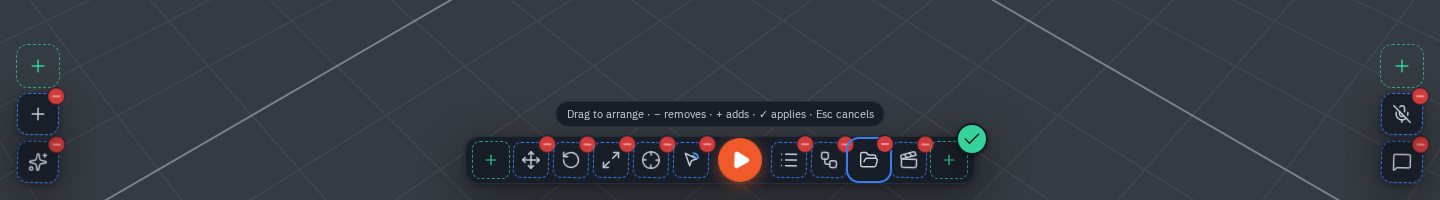
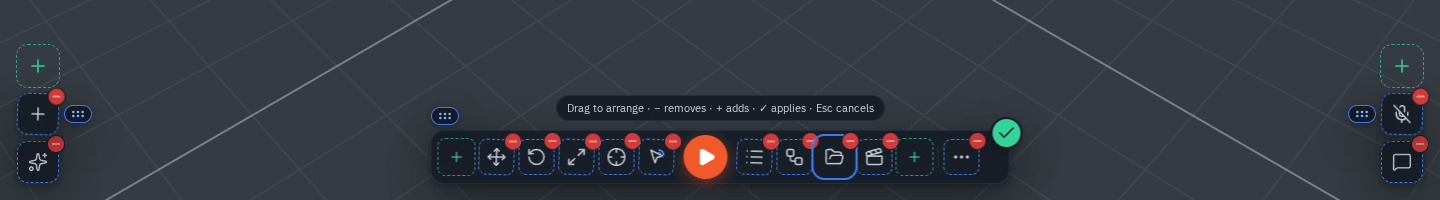
[docs] 1.35 screenshots: cluster grips, rotated clusters, window menu, dock "+" menu, dock split, focus-mode Viewport button (44-int)
Real captures of preview-1-35 (version.json sha 333d95d2), dark theme, 1440x900,
palette PNGs via sharp:
- controls: edit-positions-clusters (every cluster's grip in Edit positions, Touch
  tools on), clusters-rotated (toolbar vertical on the left edge, bottom-left
  corner as a row), window-menu (Objects header menu with Group with... > Chat)
- interface: dock-plus-menu (ticked In dock / Floating / Right sidebar rows),
  dock-split (Node editor / Explorer side by side), focus-mode-viewport-toggle
  (maximized Explorer, Viewport beside Exit focus, the PiP)
- replaced edit-positions and edit-positions-connect-bar with 1.35 captures (the
  1.34 shots had no cluster grips); connect-bar is now a crop of the top row, alt
  text updated for both

diff --git a/docs/controls.md b/docs/controls.md
@@ -438,6 +438,8 @@ Right-click a floating window's header — or press and hold it on a touch scree
 The same menu opens on a tab of a [floating window with tabs](interface.md#floating-windows-with-tabs). The header itself
 is unchanged.
 
+![The floating Objects window's header right-clicked: Dock to bottom, Move to left sidebar, Move to right sidebar, Float (undock) greyed because it already floats, Group with… open on Chat, Bring to front, Reset size and Close](img/controls/window-menu.png){ width="437" }
+
 For the bottom dock's own buttons — **Undock**, **Split**, closing a view from its tab, **Dock all tabs** on a floating
 window — and for docking a window into an exact slot by dropping it on the dock's tab bar, see
 [Windows and tabs](interface.md#windows-and-tabs).
@@ -567,6 +569,10 @@ logo and your profile picture stay where they are.) In **Edit positions** every 
   unfolding a phone, beside a pinned sidebar or above the dock. [Workspace layouts](#workspace-layouts) carry the places
   and rotations.
 
+![Edit positions with Touch tools on: every cluster has a small grip under it — the Undo, Redo and Multi-select row beside the logo, the Connect bar, the top-right group, the bottom toolbar and both corner stacks — and every button still carries its red − with green + slots](img/controls/edit-positions-clusters.png)
+
+![After Rotate to vertical and Rotate to horizontal: the toolbar stands on the left edge with Play in its middle, and the bottom-left corner buttons lie in a row](img/controls/clusters-rotated.png)
+
 #### Arranging the buttons
 
 Single buttons move between the clusters as before. The places that take buttons:
@@ -599,11 +605,11 @@ Then:
 - The round green **✓** at the top right of the toolbar **applies** the new layout. <kbd>Esc</kbd>, or a click anywhere
   else, cancels it.
 
-![Edit positions on a computer: every button has a red −, green + slots sit at the ends of the bar and on top of each corner stack, and the green ✓ applies](img/controls/edit-positions.png)
+![Edit positions on a computer: every button has a red −, green + slots sit at the ends of the bar and on top of each corner stack, a grip sits beside the bar and each corner stack, and the green ✓ applies](img/controls/edit-positions.png)
 
 ![Edit positions reaching the top right: the notifications and Explorer buttons in the top-right group carry a red − with a green + for its next place, the left corner holds four buttons and no +, and the right corner shows one +](img/controls/edit-positions-top-right.png)
 
-![Edit positions with a mouse in 1.34: Undo, Redo and Multi-select beside the logo carry a red − with a + for the next place, the Connect bar has its own red −, and the … button at the end of the bottom bar has a − too](img/controls/edit-positions-connect-bar.png)
+![The top of the screen in Edit positions with a mouse: Undo, Redo and Multi-select beside the logo carry a red − with a + for the next place, the Connect bar has its own red −, the top-right group shows a + for its next place, and each of the three clusters has its grip underneath](img/controls/edit-positions-connect-bar.png)
 
 The menus name buttons by their short name — **Pivot**, **Microphone**; the toolbar's own tooltips still tell you the
 pivot mode and how to talk.

diff --git a/docs/interface.md b/docs/interface.md
@@ -208,6 +208,8 @@ second copy:
 To close a docked window use its tab's **×**; to bring a floating window into the dock, drag it onto the dock or use its
 [window menu](controls.md#the-window-menu) (**Dock to bottom**).
 
+![The dock's + menu open: Node editor and Explorer are ticked In dock, Objects is ticked Floating, Statistics is ticked Right sidebar, and every closed window says Open](img/interface/dock-plus-menu.png)
+
 **Dock any window exactly where you want it**: drag a floating window by its header or any empty part of it — or tear
 a tab out of a tabbed window, or drag a whole tabbed window by its tab bar — onto the **dock's tab bar**. The window turns
 see-through, the tab bar is outlined and a **caret** shows the slot between the docked tabs where it will land; let go
@@ -247,6 +249,8 @@ the app closes one window of a pair for a while, the other fills the dock until 
 screen — a computer or an unfolded phone; on a folded phone the dock is one column and a pair shows as its two ordinary
 tabs.
 
+![The dock split side by side: one tab reads Node editor / Explorer, the Node editor with three nodes on the left, the Explorer's Library on the right, the divider between them and the Split button pressed at the right end of the strip](img/interface/dock-split.png)
+
 ### Floating windows with tabs
 
 - **Join a window as a tab:** drag a tab out of the dock and drop it onto a floating window. It joins that window as a
@@ -282,6 +286,8 @@ window, at the top for the 3D view) — and everything comes back exactly as it 
 focus** on a docked window, a **Viewport** button shows or hides the
 [viewport picture-in-picture](#the-viewport-picture-in-picture) without leaving focus mode. Focus mode also
 ends when a dialog opens or you press Play.
+
+![Focus mode on the docked Explorer: it fills the whole window, the Viewport button (pressed) sits just left of Exit focus in the tab row, and the viewport picture-in-picture shows the scene in the bottom-right corner](img/interface/focus-mode-viewport-toggle.png)
 
 Without a keyboard: **View ▸ Focus mode** in the 3D view's right-click menu, right-click a dock tab ▸ **Maximize (focus
 mode)**, or on a phone **More ▸ Tools & View ▸ Focus mode** (which you can also drag onto the
